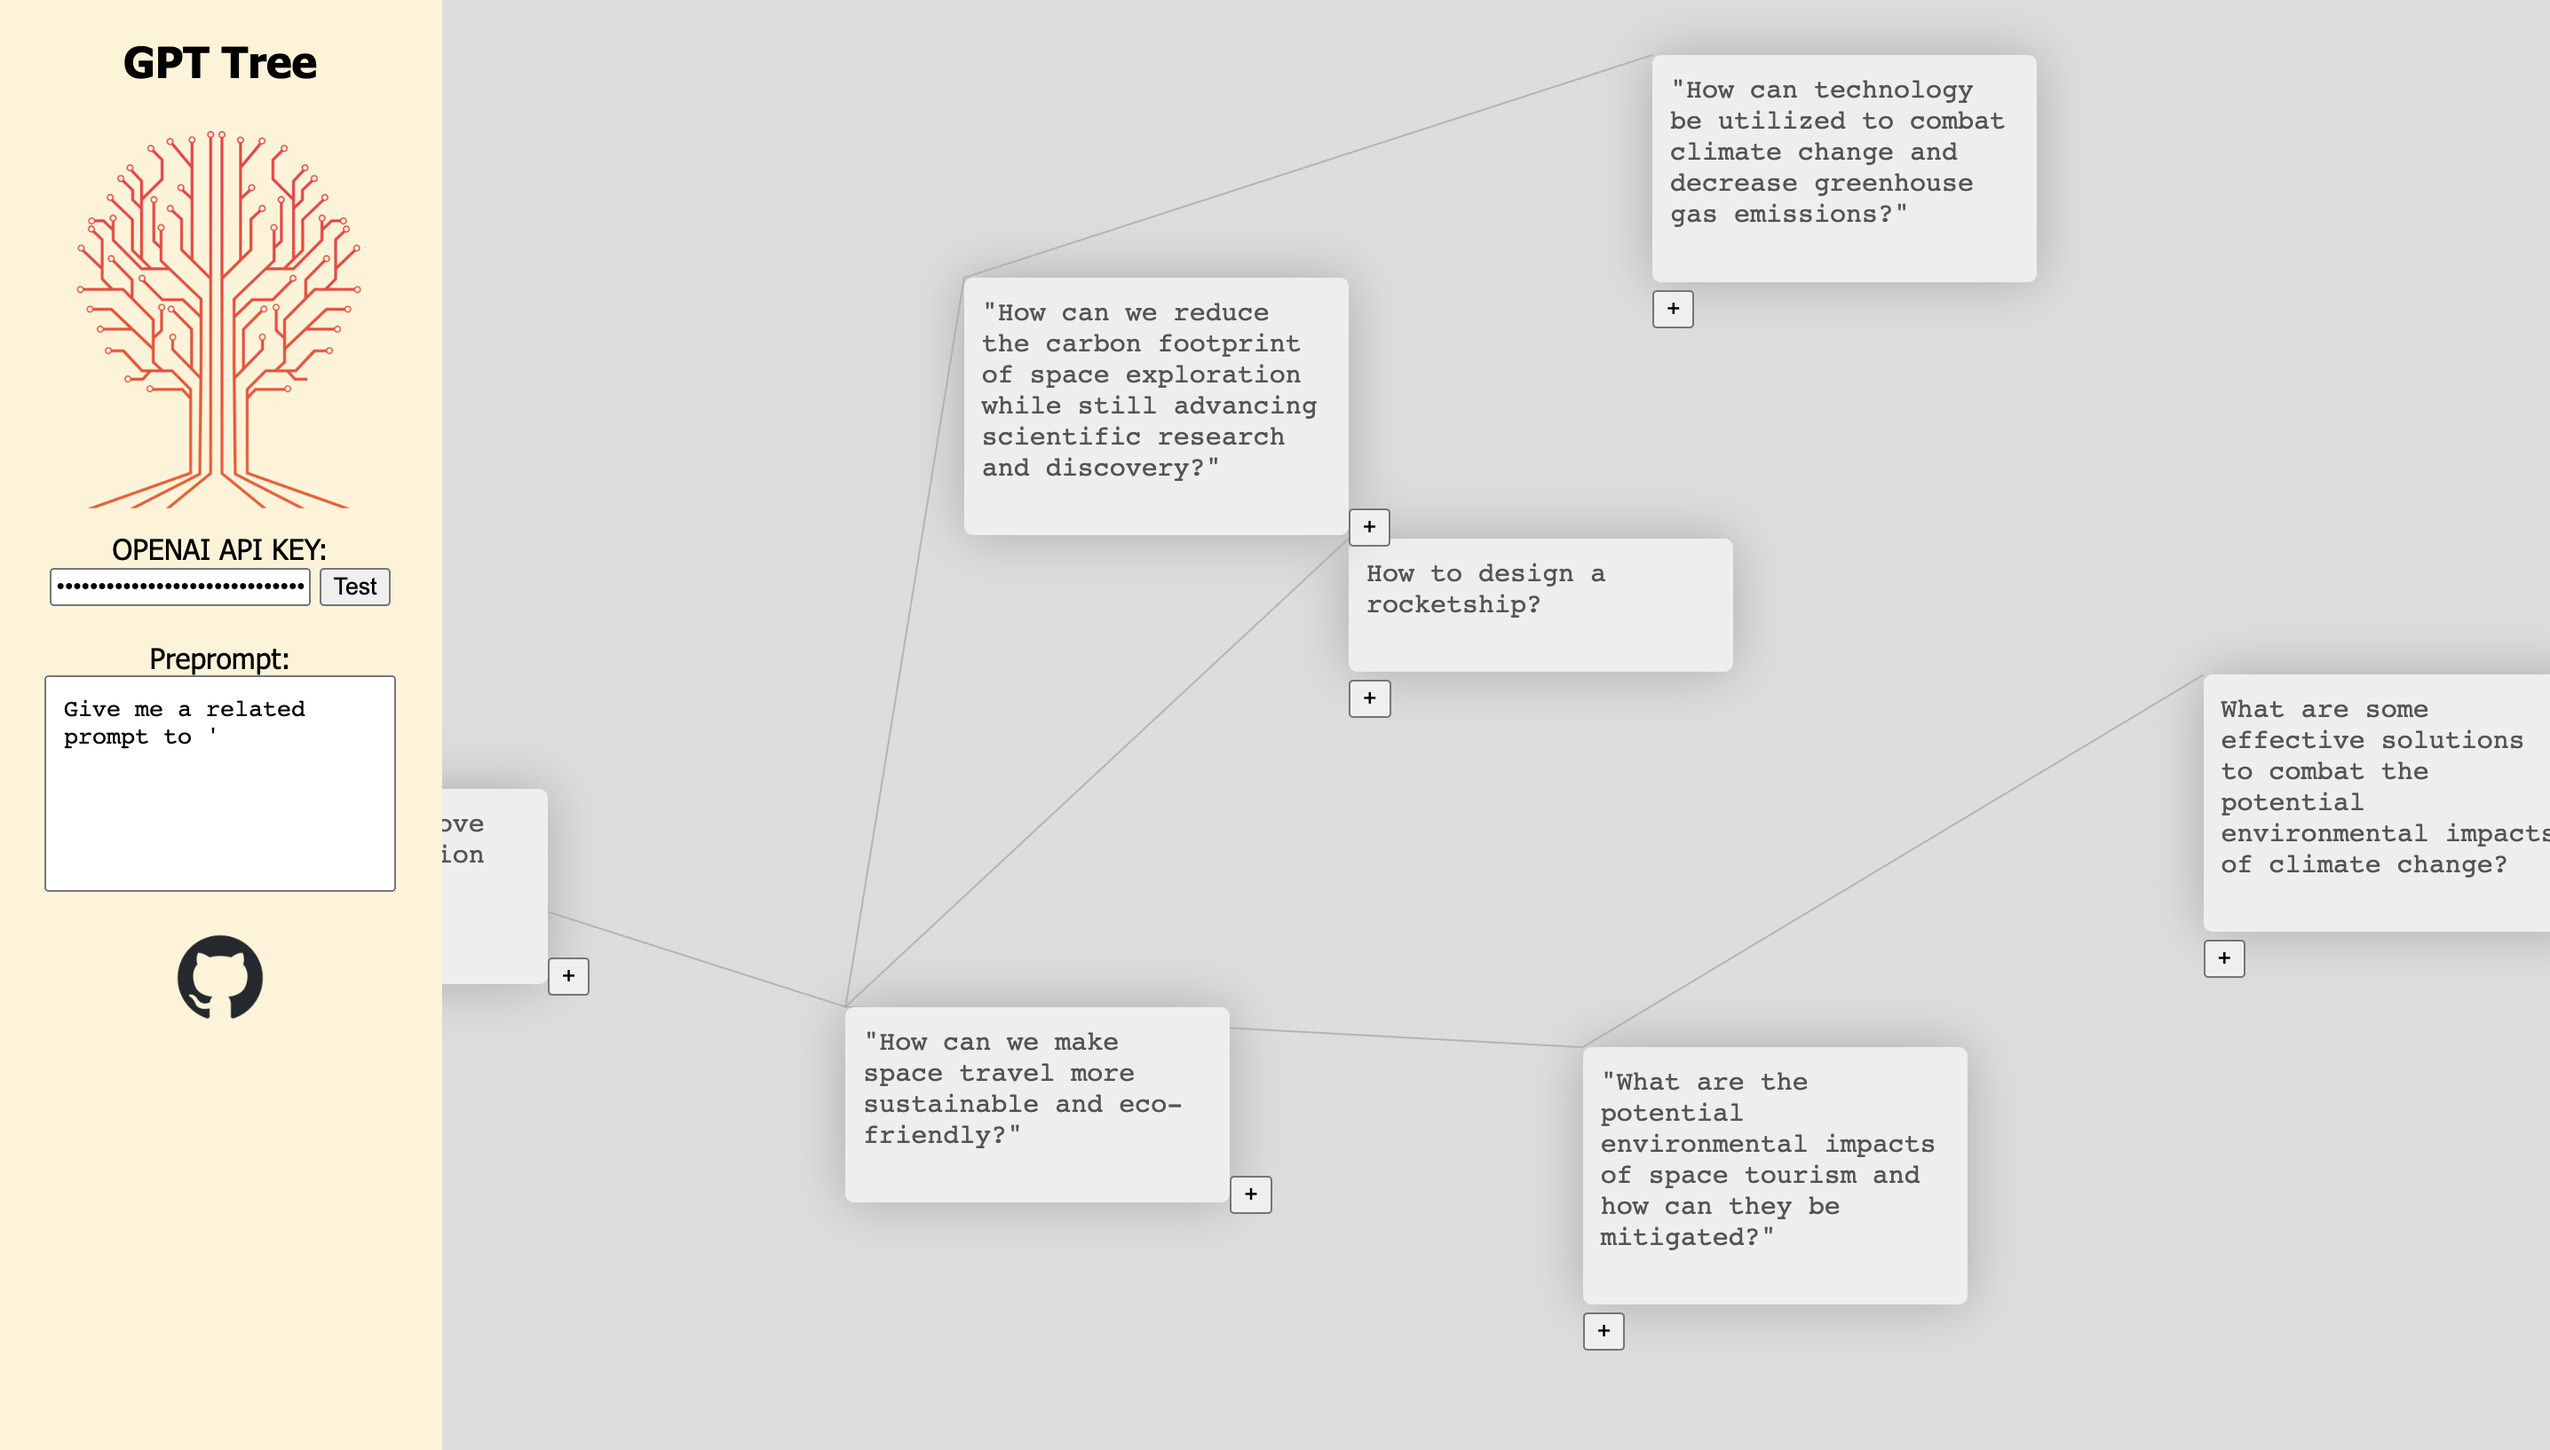
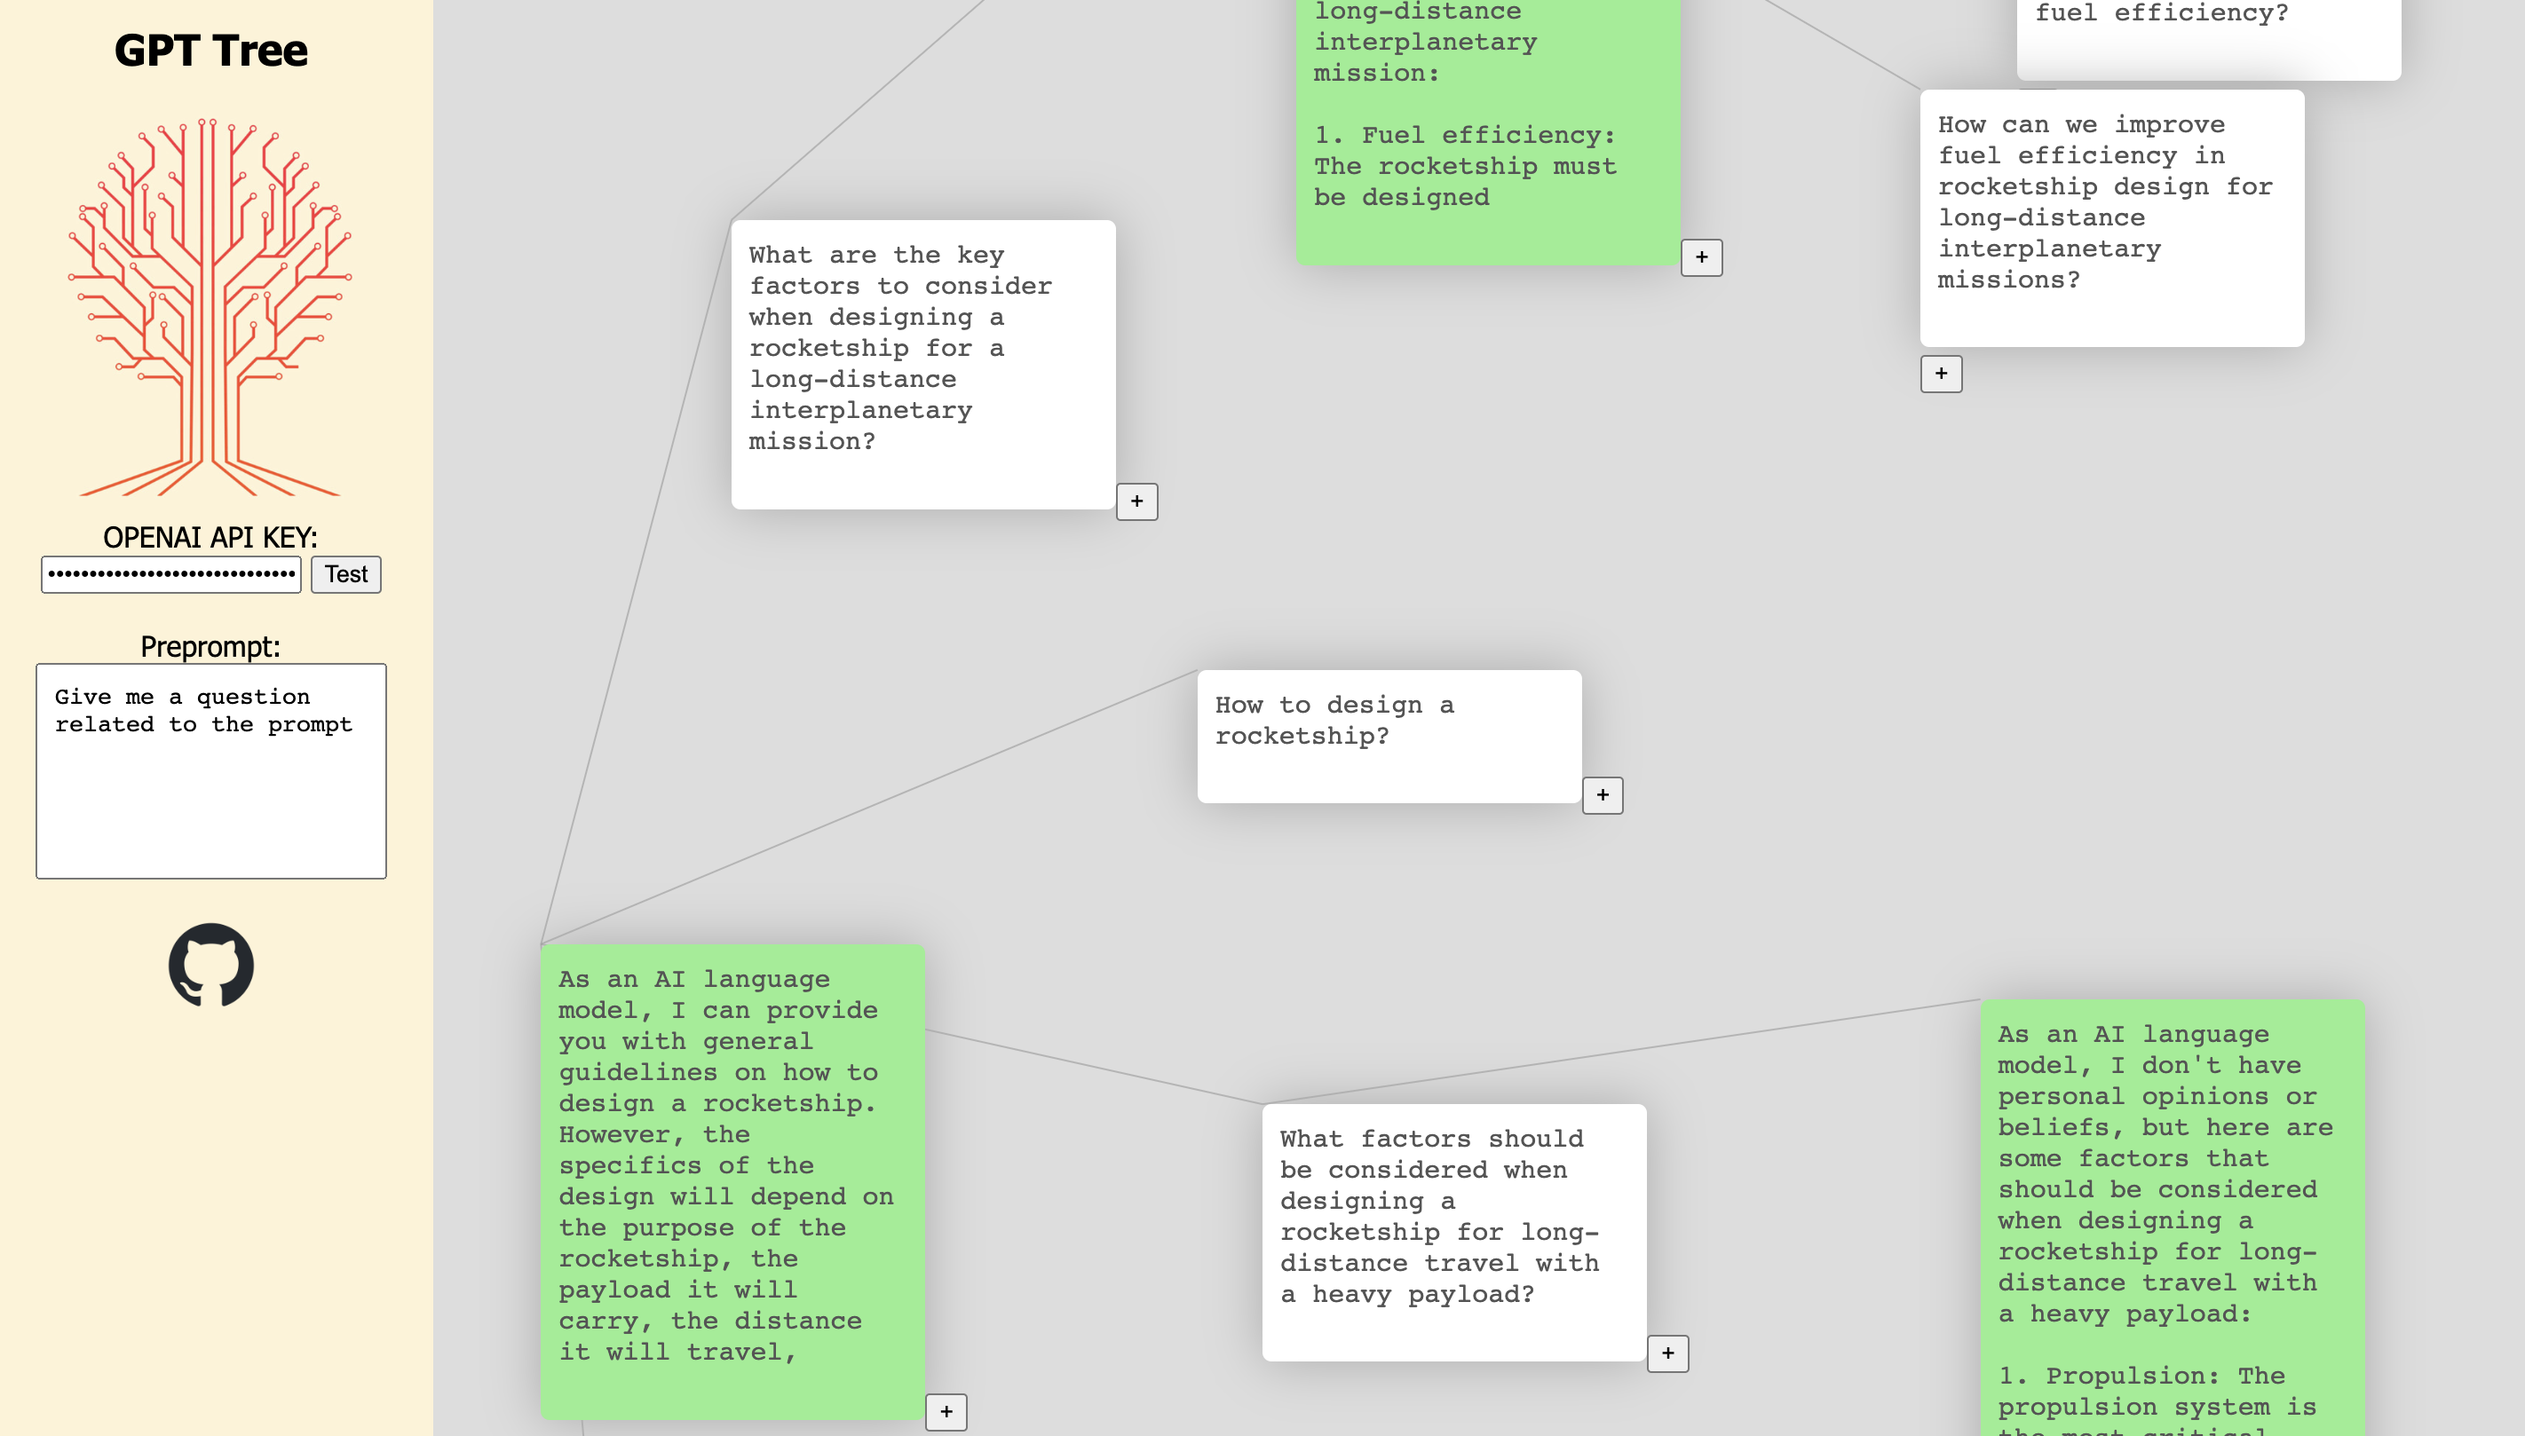
update

diff --git a/static/main.js b/static/main.js
@@ -32,8 +32,10 @@ function triggerNodeCreation(e, d) {
     if(nodeContent.length < 7)
         return
 
+    var nodeType = d.type == "question" ? "answer" : "question"
+
     var newNodeRef = {
-        name: "", children:[], requestPrompt: nodeContent 
+        name: "", children:[], requestPrompt: nodeContent, type: nodeType
     }
         
     d.children.push(newNodeRef)
@@ -117,6 +119,12 @@ function render_graph(data) {
 
             var ngTextArea = ng.append("textarea")
                 .attr("class", "content-text")
+                .style("background-color", function(d) {
+                    if(d.type == "answer")
+                        return "lightgreen"
+                    else
+                        return "white"
+                })
                 .attr("disabled", true)
                 .style("height", _ => this.scrollHeight + "px;overflow-y:hidden;")
                 .on("input", function () {
@@ -141,8 +149,15 @@ function render_graph(data) {
 
                 if(!("requestPrompt" in d))
                     return
+
+                var promptVal = d.requestPrompt
+
+                if(d.type == "question")   
+                    promptVal = $("#preprompt").val() + " " + d.requestPrompt
+                // else
+                //     promptVal = d.requestPrompt
             
-                getRelatedContent(d.requestPrompt, 1)
+                getRelatedContent(promptVal, 1)
                     .then(function(respList) {
 
                         var fillContent = respList[0]

diff --git a/index.html b/index.html
@@ -86,7 +86,7 @@
         <br><br>
         
         <label for="apikey">Preprompt:</label><br>
-        <textarea id="preprompt">Give me a related prompt to '</textarea>
+        <textarea id="preprompt">Give me a question related to the prompt</textarea>
 
         <br><br>
 
@@ -133,6 +133,7 @@
 
         var data = {
             name:"",
+            type: "question",
             children:[]
         }
 

diff --git a/static/openai.js b/static/openai.js
@@ -1,7 +1,7 @@
 function getRelatedContent(content, n) {
     var promptPromise = new Promise((resolve, reject) => {
         
-        getPromptResponse($("#preprompt").val() + " " + content +"'", n, 0.7, $("#apikey").val())
+        getPromptResponse("'" + content + "'", n, 0.7, $("#apikey").val())
             .then(function(response) {  
                 
                 var respList = []
